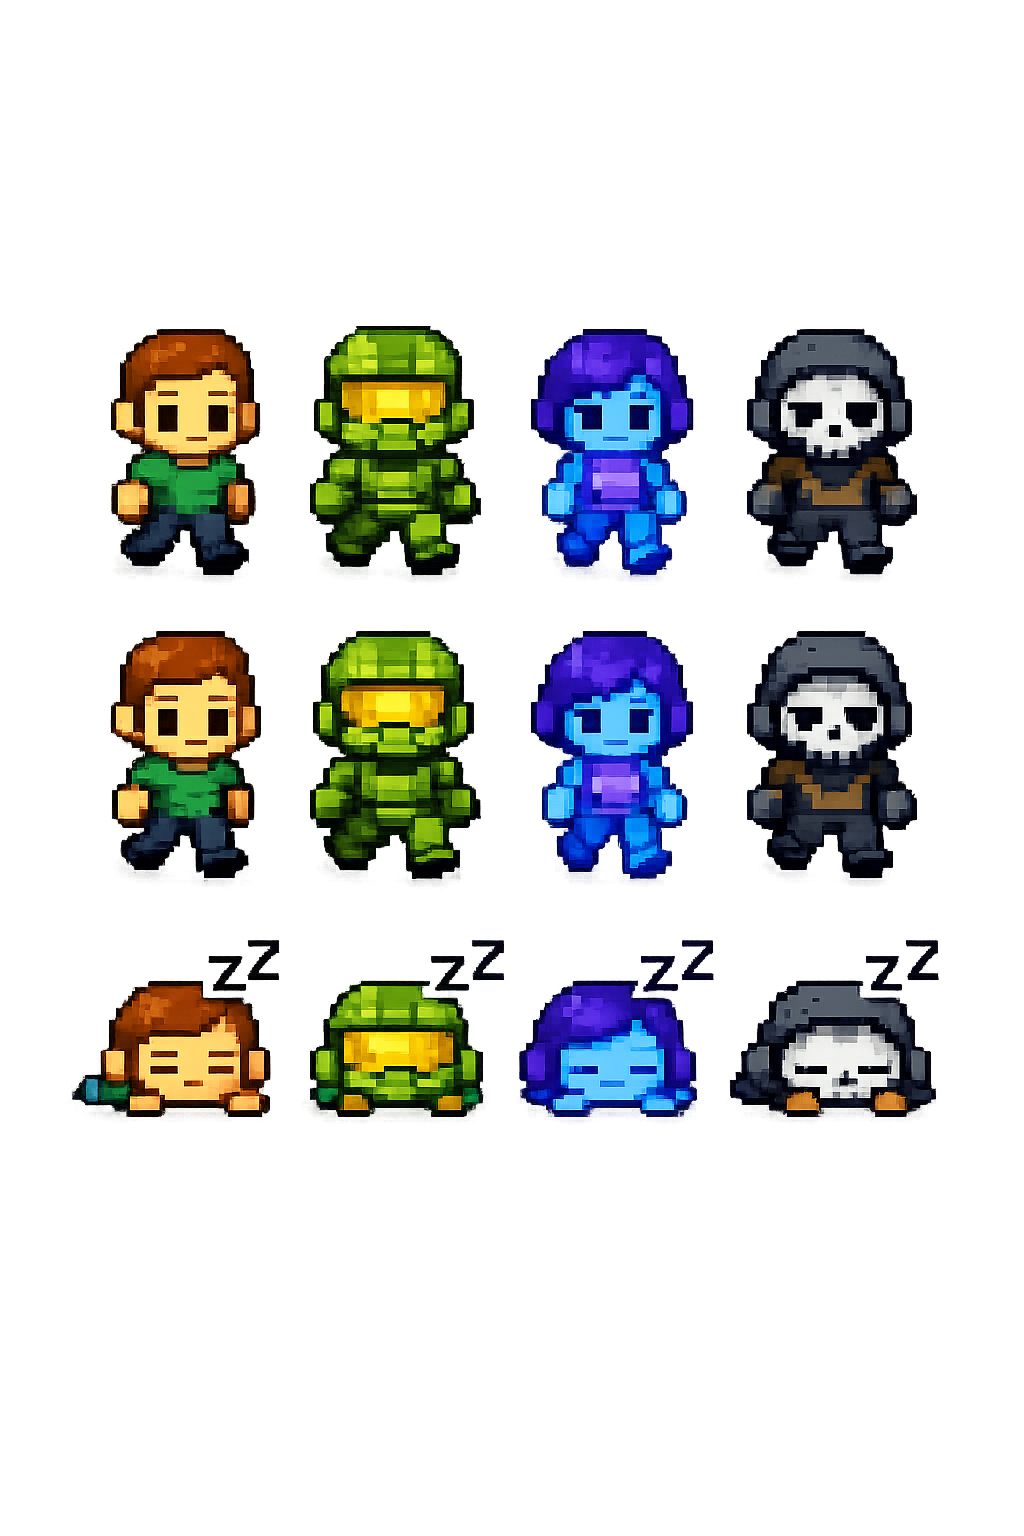
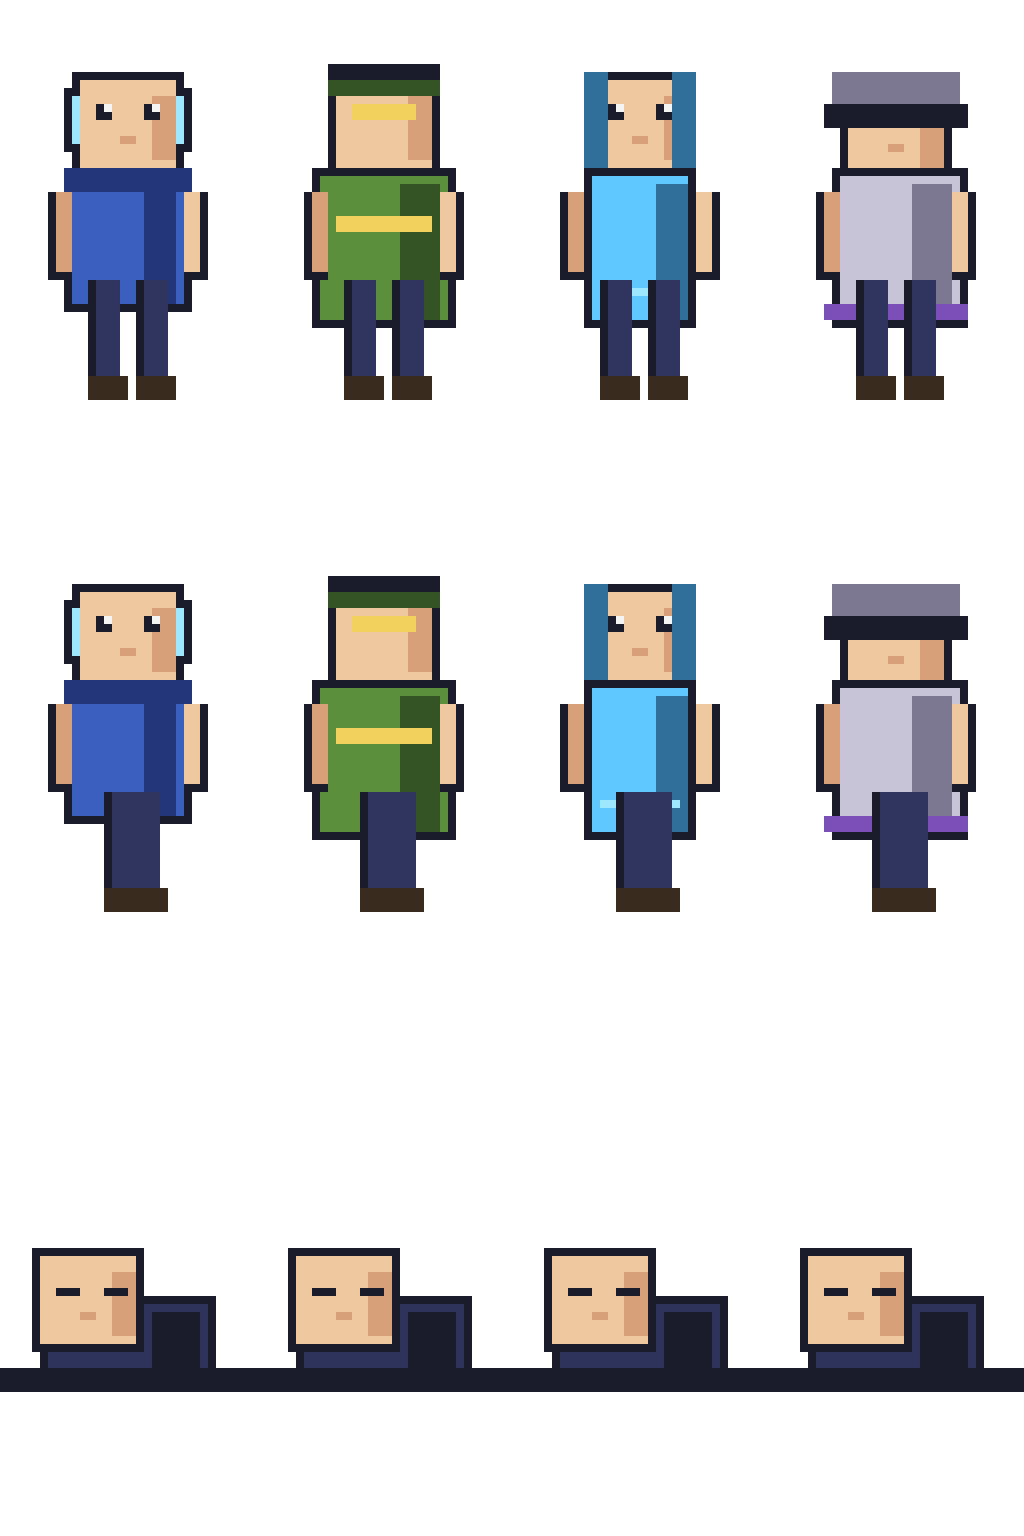
Redraw all character sprites in cohesive NES style

diff --git a/scripts/redraw_chars.py b/scripts/redraw_chars.py
@@ -1,0 +1,164 @@
+from PIL import Image, ImageDraw
+
+SCALE = 8
+CELL_W, CELL_H = 256, 512  # 32x64 logical
+LOG_W, LOG_H = 32, 64
+
+# NES-like restrained palette
+COL = {
+    'outline': '#1a1c2c',
+    'shadow': '#2d335b',
+    'skin': '#f0c8a0',
+    'skin2': '#d8a078',
+    'white': '#f4f4f4',
+    'max_shirt': '#3a5fbf',
+    'max_dark': '#24367a',
+    'chief_armor': '#5b8f3b',
+    'chief_dark': '#355426',
+    'visor': '#f2d15c',
+    'cortana_main': '#5ec8ff',
+    'cortana_dark': '#2f6f9a',
+    'ghost_main': '#c8c4d8',
+    'ghost_dark': '#7d7892',
+    'pants': '#2f355f',
+    'boots': '#3a2b1f',
+    'glow': '#9de7ff',
+    'purple': '#7c4fb8',
+}
+
+CHARS = ['max', 'chief', 'cortana', 'ghost']
+
+
+def R(d, x, y, w, h, c):
+    d.rectangle((x*SCALE, y*SCALE, (x+w)*SCALE-1, (y+h)*SCALE-1), fill=c)
+
+
+def draw_outline(d, cx, top, w=14, h=18):
+    R(d, cx-w//2-1, top-1, w+2, h+2, COL['outline'])
+
+
+def draw_head(d, cx, top):
+    draw_outline(d, cx, top, 12, 11)
+    R(d, cx-6, top, 12, 11, COL['skin'])
+    R(d, cx+3, top+2, 3, 8, COL['skin2'])
+
+
+def draw_body(d, cx, y, w, h, c1, c2):
+    draw_outline(d, cx, y, w, h)
+    R(d, cx-w//2, y, w, h, c1)
+    R(d, cx+max(1,w//6), y+1, max(2,w//3), h-1, c2)
+
+
+def draw_limbs(d, cx, y, walk=0):
+    # arms
+    R(d, cx-10, y+2, 3, 11, COL['outline'])
+    R(d, cx+7, y+2, 3, 11, COL['outline'])
+    R(d, cx-9, y+2, 2, 10, COL['skin2'])
+    R(d, cx+7, y+2, 2, 10, COL['skin'])
+    # legs
+    lx = -4 if walk == 1 else -3
+    rx = 2 if walk == 1 else 3
+    if walk == 2:
+        lx, rx = -2, 1
+    R(d, cx+lx-1, y+13, 4, 14, COL['outline'])
+    R(d, cx+rx-1, y+13, 4, 14, COL['outline'])
+    R(d, cx+lx, y+13, 3, 12, COL['pants'])
+    R(d, cx+rx, y+13, 3, 12, COL['pants'])
+    R(d, cx+lx-1, y+25, 5, 3, COL['boots'])
+    R(d, cx+rx-1, y+25, 5, 3, COL['boots'])
+
+
+def face(d, cx, y, mode='idle'):
+    if mode == 'sleep':
+        R(d, cx-4, y+4, 3, 1, COL['outline']); R(d, cx+2, y+4, 3, 1, COL['outline'])
+    elif mode == 'think':
+        R(d, cx-4, y+3, 2, 2, COL['outline']); R(d, cx+2, y+2, 2, 2, COL['outline'])
+    else:
+        R(d, cx-4, y+3, 2, 2, COL['outline']); R(d, cx+2, y+3, 2, 2, COL['outline'])
+        R(d, cx-3, y+3, 1, 1, COL['white']); R(d, cx+3, y+3, 1, 1, COL['white'])
+    if mode == 'typing':
+        R(d, cx-1, y+7, 2, 1, COL['outline'])
+    else:
+        R(d, cx-1, y+7, 2, 1, COL['skin2'])
+
+
+def character(cell, char, state):
+    d = ImageDraw.Draw(cell)
+    cx = 16
+    top = 10
+    torso_y = 22
+
+    walk = 0
+    if state == 'walk1': walk = 1
+    if state == 'walk2': walk = 2
+
+    # subtle pose adjustments
+    if state == 'thinking':
+        cx += 1
+    if state == 'sleeping':
+        # desk sleep pose
+        draw_body(d, 16, 35, 20, 8, COL['shadow'], COL['outline'])
+        draw_head(d, 11, 29)
+        face(d, 11, 29, 'sleep')
+        R(d, 0, 43, 32, 3, COL['outline'])
+        return
+
+    if char == 'max':
+        draw_head(d, cx, top)
+        face(d, cx, top, 'typing' if state=='typing' else ('think' if state=='thinking' else 'idle'))
+        # hoodie + headphones
+        draw_body(d, cx, torso_y, 14, 16, COL['max_shirt'], COL['max_dark'])
+        R(d, cx-8, torso_y-1, 16, 3, COL['max_dark'])
+        R(d, cx-8, top+1, 2, 8, COL['outline']); R(d, cx+6, top+1, 2, 8, COL['outline'])
+        R(d, cx-7, top+2, 1, 6, COL['glow']); R(d, cx+6, top+2, 1, 6, COL['glow'])
+    elif char == 'chief':
+        draw_head(d, cx, top)
+        # helmet
+        R(d, cx-7, top-2, 14, 4, COL['chief_dark'])
+        R(d, cx-7, top-2, 14, 2, COL['outline'])
+        R(d, cx-4, top+3, 8, 2, COL['visor'])
+        draw_body(d, cx, torso_y, 16, 18, COL['chief_armor'], COL['chief_dark'])
+        R(d, cx-6, torso_y+5, 12, 2, COL['visor'])
+    elif char == 'cortana':
+        draw_head(d, cx, top)
+        face(d, cx, top, 'typing' if state=='typing' else ('think' if state=='thinking' else 'idle'))
+        # hair + sleek suit
+        R(d, cx-7, top-1, 3, 12, COL['cortana_dark'])
+        R(d, cx+4, top-1, 3, 12, COL['cortana_dark'])
+        draw_body(d, cx, torso_y, 12, 18, COL['cortana_main'], COL['cortana_dark'])
+        R(d, cx-5, torso_y+14, 10, 1, COL['glow'])
+    else:  # ghost
+        draw_head(d, cx, top+1)
+        face(d, cx, top+1, 'typing' if state=='typing' else ('think' if state=='thinking' else 'idle'))
+        # hood + cloak
+        R(d, cx-8, top-1, 16, 6, COL['ghost_dark'])
+        R(d, cx-9, top+3, 18, 3, COL['outline'])
+        draw_body(d, cx, torso_y, 15, 18, COL['ghost_main'], COL['ghost_dark'])
+        R(d, cx-9, torso_y+16, 18, 2, COL['purple'])
+
+    draw_limbs(d, cx, torso_y, walk=walk)
+
+    if state == 'typing':
+        R(d, cx-11, torso_y+8, 4, 2, COL['outline'])
+        R(d, cx+7, torso_y+8, 4, 2, COL['outline'])
+    if state == 'thinking':
+        R(d, cx+7, top-4, 2, 2, COL['white'])
+        R(d, cx+10, top-7, 3, 3, COL['white'])
+
+
+def build_sheet(rows):
+    img = Image.new('RGBA', (CELL_W*4, CELL_H*3), (0, 0, 0, 0))
+    for c, ch in enumerate(CHARS):
+        for r, st in enumerate(rows):
+            cell = Image.new('RGBA', (CELL_W, CELL_H), (0, 0, 0, 0))
+            character(cell, ch, st)
+            img.alpha_composite(cell, (c*CELL_W, r*CELL_H))
+    return img
+
+
+if __name__ == '__main__':
+    idle = build_sheet(['idle', 'typing', 'thinking'])
+    action = build_sheet(['walk1', 'walk2', 'sleeping'])
+    idle.save('public/chars-idle.png')
+    action.save('public/chars-action.png')
+    print('wrote sprite sheets')
